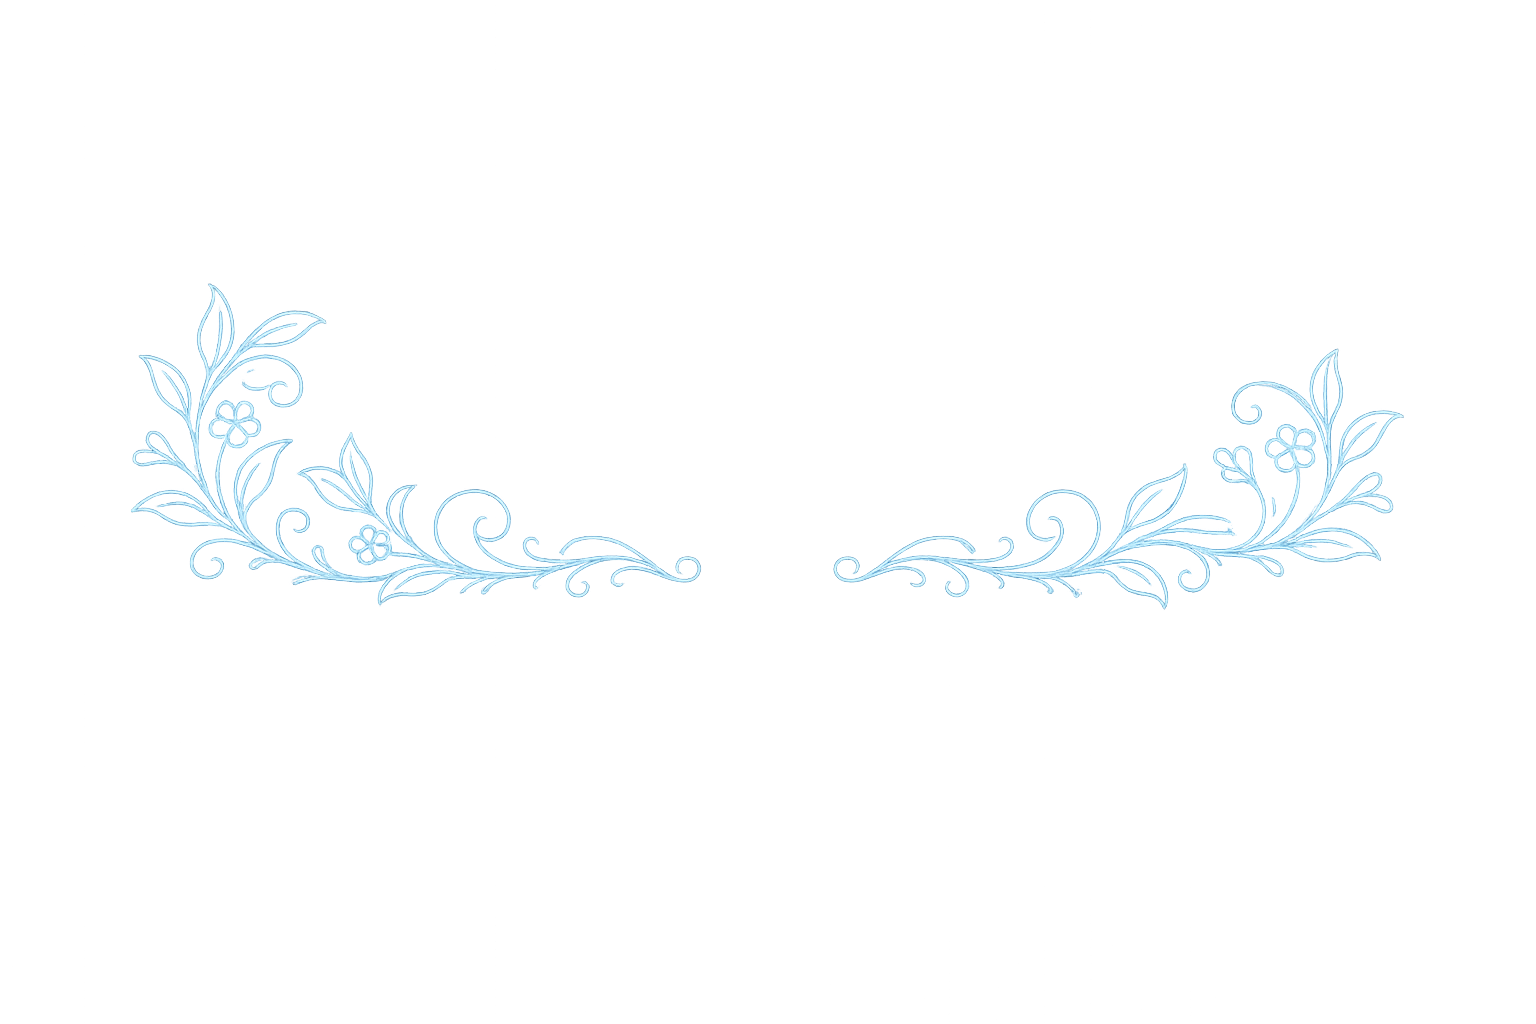
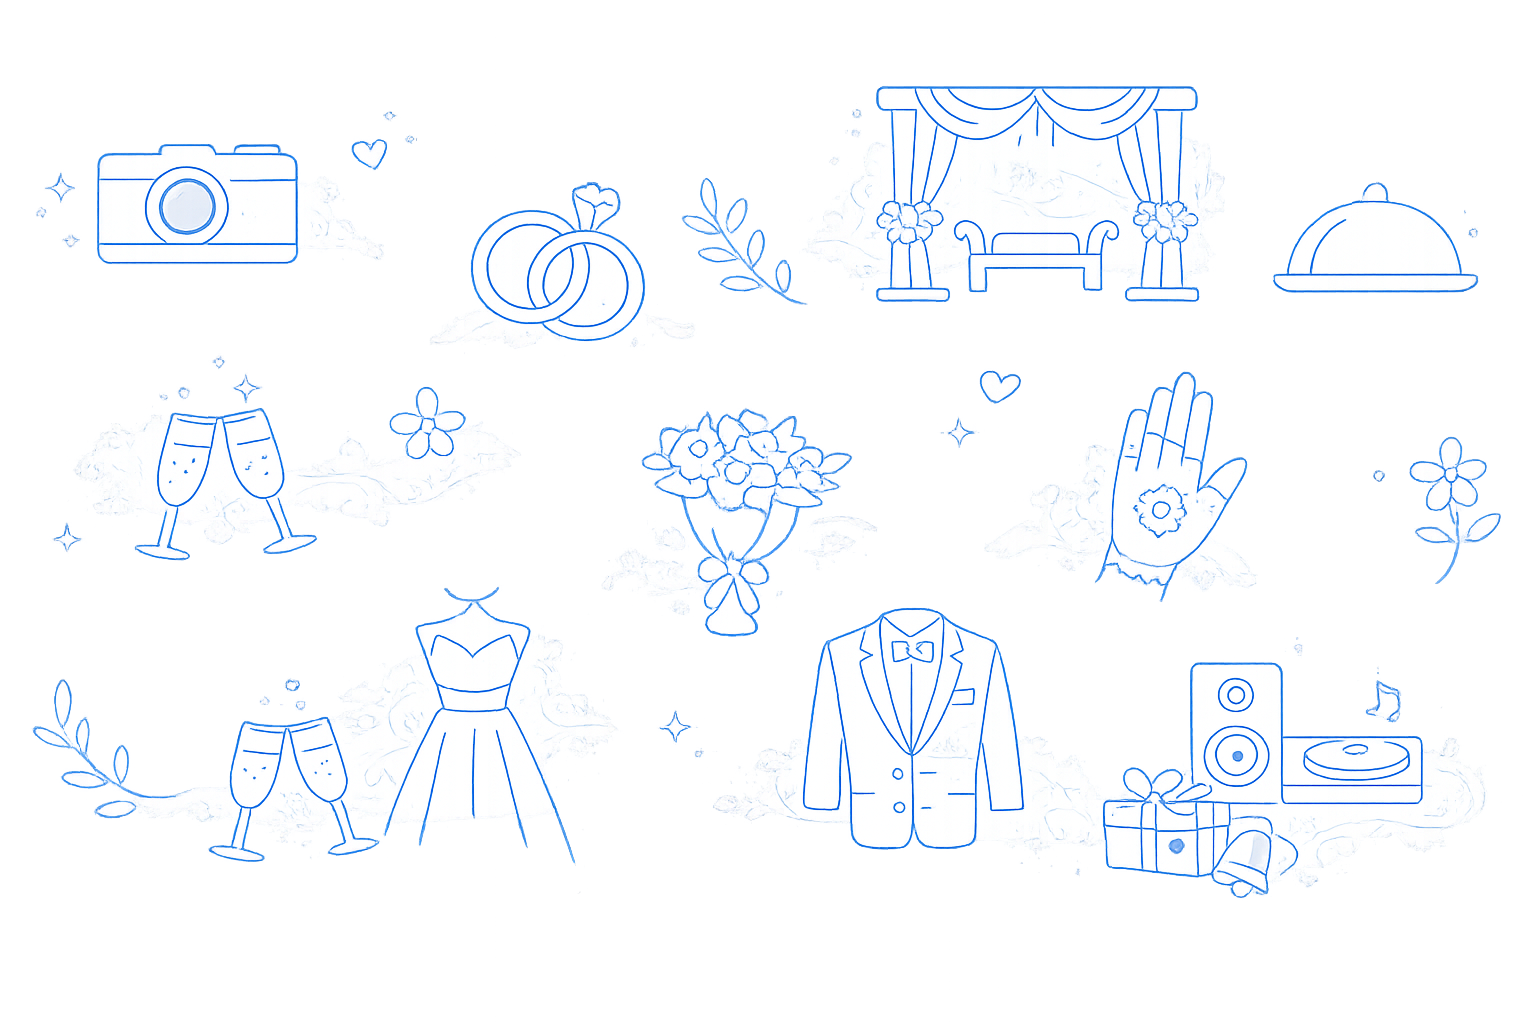
all clips

diff --git a/clips/constants/index.ts b/clips/constants/index.ts
@@ -43,10 +43,23 @@ export const CLIP_FEED_SETTINGS = Object.freeze({
   minimumViewDurationMs: 3_000,
 });
 
-/** Mobile-friendly Cloudinary video delivery caps (device px, pre-dpr). */
+/**
+ * Cloudinary video delivery — a single fixed transformation bucket, not a
+ * per-device/per-render size. Cloudinary transcodes video on-the-fly per
+ * unique transformation string, and that transcode is genuinely slow
+ * (measured 7-11s cold vs ~2s for the untransformed original). A width that
+ * varies with viewport/DPR means practically every device requests its own
+ * never-before-seen string, so it *never* hits a warm derivative. Every
+ * clip in the DB is already capped at 1080x1920 at upload (see
+ * clips_resolution_valid), so this bucket matches the source almost exactly
+ * — Cloudinary mostly just re-encodes format/quality rather than resizing —
+ * and it's the same single string for every viewer, so at most one viewer
+ * ever pays the cold-transcode cost per clip.
+ */
 export const CLIP_VIDEO_DELIVERY = Object.freeze({
-  maxWidth: 1080,
-  nativeQuality: "auto:eco",
+  width: 1080,
+  height: 1920,
+  nativeQuality: "auto:good",
   webQuality: "auto:good",
 });
 

diff --git a/clips/components/PublicClipVideo.tsx b/clips/components/PublicClipVideo.tsx
@@ -51,21 +51,20 @@ export const PublicClipVideo = React.memo(function PublicClipVideo({
 
   const hasValidSource = typeof uri === "string" && VALID_URI.test(uri.trim());
 
+  // Fixed bucket, deliberately NOT derived from the rendered width/DPR —
+  // see CLIP_VIDEO_DELIVERY. Every viewer requesting the same transformation
+  // string is what lets Cloudinary's derivative cache actually help.
   const deliveryUri = useMemo(() => {
     if (!hasValidSource) return null;
-    const dpr = Math.min(2, Math.max(1, PixelRatio.get()));
-    const targetWidth = Math.min(
-      CLIP_VIDEO_DELIVERY.maxWidth,
-      Math.round((width && width > 0 ? width : 720) * dpr),
-    );
     return cloudinaryVideoDeliveryUrl(uri, {
-      width: targetWidth,
+      width: CLIP_VIDEO_DELIVERY.width,
+      height: CLIP_VIDEO_DELIVERY.height,
       crop: "limit",
       quality: Platform.OS === "web"
         ? CLIP_VIDEO_DELIVERY.webQuality as any
         : CLIP_VIDEO_DELIVERY.nativeQuality as any,
     });
-  }, [hasValidSource, uri, width]);
+  }, [hasValidSource, uri]);
 
   const posterUri = useMemo(() => {
     if (!thumbnailUrl) return thumbnailUrl;

diff --git a/app/(tabs)/clips.tsx b/app/(tabs)/clips.tsx
@@ -462,7 +462,14 @@ export default function ClipsScreen() {
         maxToRenderPerBatch={Platform.OS === "web" ? 3 : 2}
         updateCellsBatchingPeriod={16}
         windowSize={Platform.OS === "web" ? 5 : 3}
-        removeClippedSubviews={Platform.OS !== "web"}
+        // iOS-only: removeClippedSubviews has long-standing VirtualizedList
+        // bugs on Android with per-item content like ours (native video
+        // surfaces + absolute-positioned gradient overlays) — clipped rows
+        // can fail to un-clip on scroll-back, which cuts the feed short
+        // well before the real end. Not worth it here: the active-only
+        // video mount + tight windowSize above already keep native view
+        // count and memory in check without it.
+        removeClippedSubviews={Platform.OS === "ios"}
         getItemLayout={(_, index) => ({ length: containerHeight, offset: containerHeight * index, index })}
         onViewableItemsChanged={onViewableItemsChanged} viewabilityConfig={viewabilityConfig}
         onEndReached={() => void loadMore()} onEndReachedThreshold={0.75}
